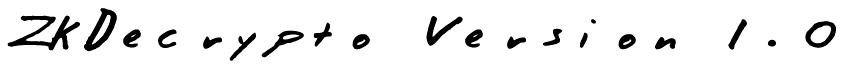
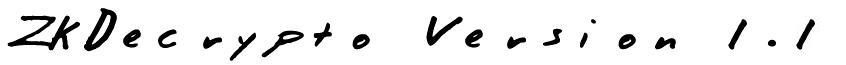
Initial setup for 1.1 version

Changed region(s): [[0.922, 0.3077, 1.0, 0.7692]]

diff --git a/zkdecrypto/headers/zodiac.h b/zkdecrypto/headers/zodiac.h
@@ -8,7 +8,7 @@
 
 //program
 #define PROG_NAME	"Zodiac Decrypto"
-#define PROG_VER	"Version 1.0"
+#define PROG_VER	"Version 1.1"
 
 //language
 #define LANG_DIR	"language"
